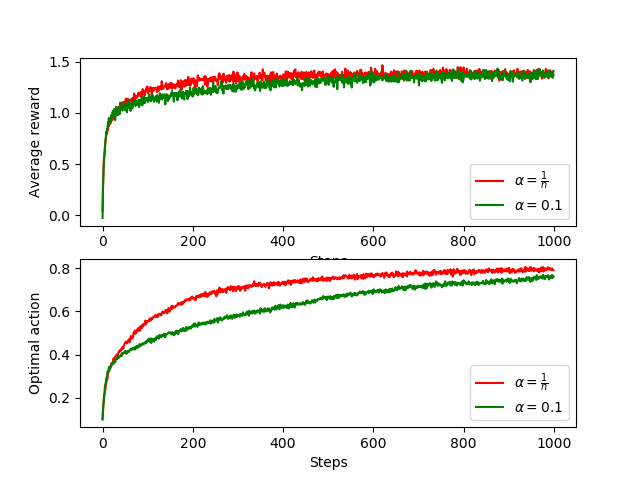
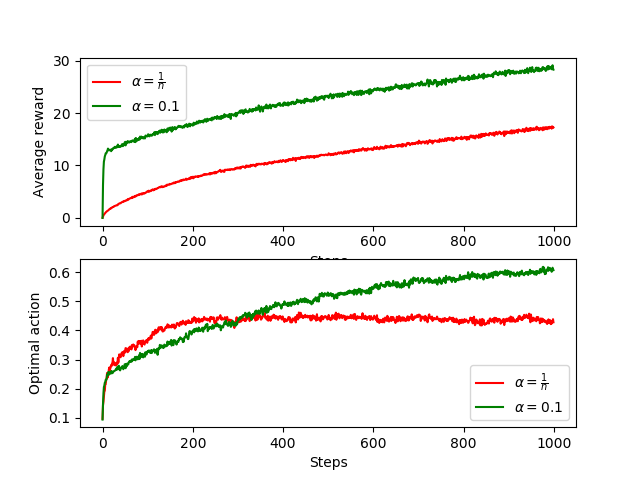
complete the exercise 2.3

diff --git a/Capter 2/Exercise 2-3.py b/Capter 2/Exercise 2-3.py
@@ -5,15 +5,13 @@ import numpy as np
 class bandit:
     def __init__(self, arm_num):
         self.arms = []
-        mean = random.gauss(0, 1)
         for _ in range(arm_num):
-
-            arm = {'mean': mean, 'std': 1}
+            arm = {'mean': random.gauss(0, 1), 'std': 1}
             self.arms.append(arm)
 
-    def reset(self):
+    def reset(self,random_walk_std):
         for i in range(len(self.arms)):
-            self.arms[i]['mean'] = random.gauss(0, 1)
+            self.arms[i]['mean'] += random.gauss(0, random_walk_std)
 
     def step(self, arm_idx):
         mean = self.arms[arm_idx]['mean']
@@ -35,6 +33,7 @@ class agent:
             self.memory.append(arm_info)
         self.alpha_type=alpha_type
         self.reward_list=[]
+
     def update_memory(self, arm_idx, reward):
         Q = self.memory[arm_idx]['Q']
         visits = self.memory[arm_idx]['visits'] + 1
@@ -44,7 +43,6 @@ class agent:
         elif self.alpha_type == 'constant':
             alpha = 0.1
         Q_new = Q + alpha * (reward - Q)
-
         self.memory[arm_idx]['Q'] = Q_new
         self.memory[arm_idx]['visits'] = visits
         self.reward_list.append(reward)
@@ -58,21 +56,16 @@ class agent:
             arm_idx = self.memory.index(item)
         return arm_idx
 
-
-def exercise2_3(max_steps=1000, task_num=2000, greedy=0.1):
-
-
+def exercise2_3(max_steps=1000, task_num=2000, greedy=0.1,random_walk_std=0.5):
     tasks = []
     for _ in range(task_num):
         task = bandit(10)
         agent0 = agent(greedy, 10, 'sample-average')
         agent1 = agent(greedy, 10, 'constant')
-        #task.reset()
         tasks.append([task,agent0,agent1])
     graph1 = []
     graph2 = []
     for i in range(1,3):
-
         optim_percent = []
         total_reward = np.zeros(max_steps)
         for step in range(1, max_steps + 1):
@@ -86,10 +79,8 @@ def exercise2_3(max_steps=1000, task_num=2000, greedy=0.1):
                 optim_idx=env.optim_idx()
                 if arm_idx == optim_idx:
                     optim_count += 1
-                env.reset()
-
+                env.reset(random_walk_std)
             optim_percent.append(optim_count / task_num)
-
         for single_task in tasks:
             player=single_task[i]
             total_reward+=np.array(player.reward_list)
@@ -111,7 +102,6 @@ def exercise2_3(max_steps=1000, task_num=2000, greedy=0.1):
     plt.legend()
     plt.show()
 
-
 if __name__ == '__main__':
-
-    exercise2_3(max_steps=1000, task_num=2000, greedy=0.1)
+    # random walk : q=q+e , e~N(0,std)
+    exercise2_3(max_steps=1000, task_num=2000, greedy=0.1,random_walk_std=0.5)
